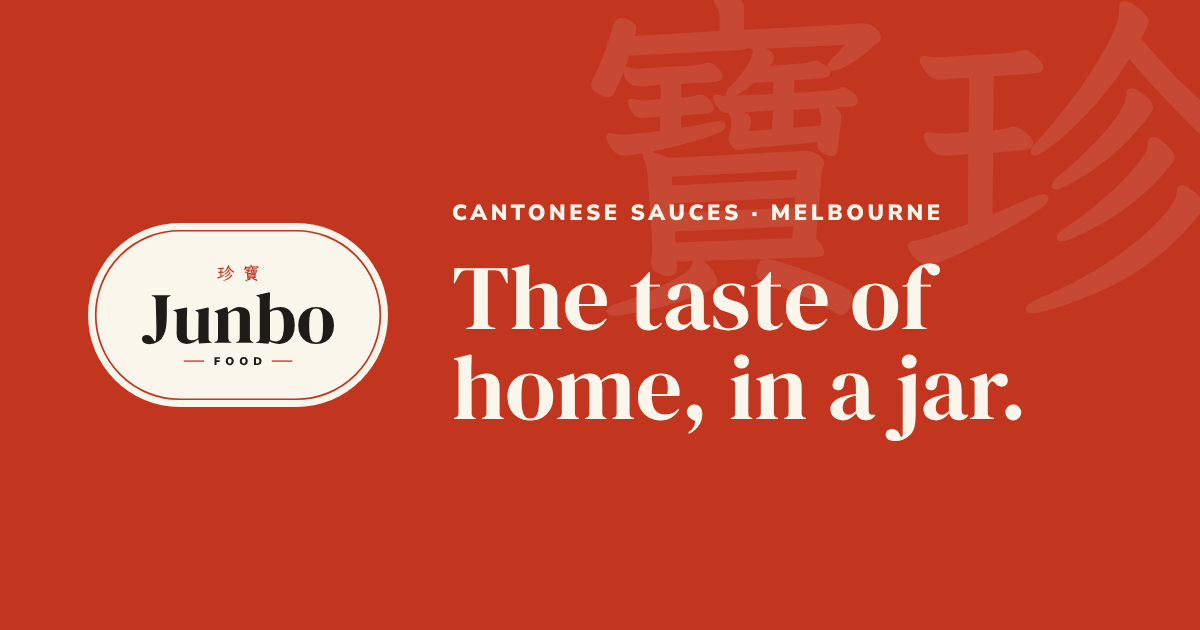
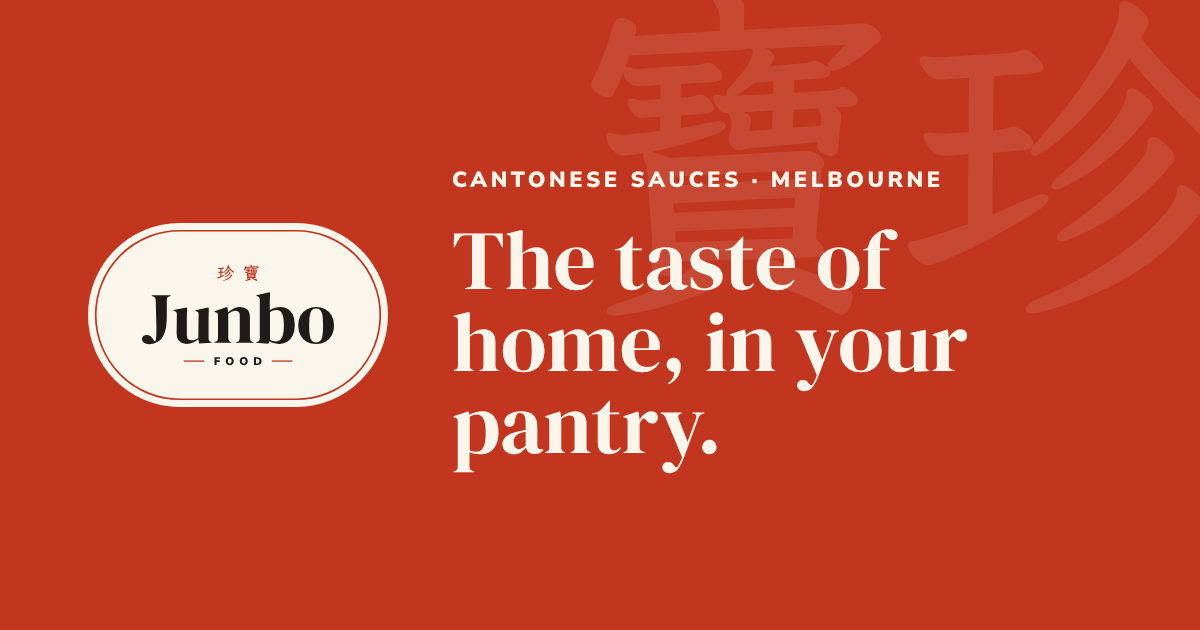
Change tagline to "The taste of home, in your pantry." (#4)
Updates the headline, share title and share image.

Claude-Session: https://claude.ai/code/session_01MYDLUq4dhegkNQLNVie6aP

Changed region(s): [[0.37, 0.2714, 0.8633, 0.754]]

diff --git a/index.html b/index.html
@@ -12,14 +12,14 @@
   <meta property="og:type" content="website">
   <meta property="og:site_name" content="Junbo Food">
   <meta property="og:locale" content="en_AU">
-  <meta property="og:title" content="Junbo Food · The taste of home, in a jar">
+  <meta property="og:title" content="Junbo Food · The taste of home, in your pantry">
   <meta property="og:description" content="Cantonese sauces from our family's takeaway kitchen in Melbourne. Online shop coming soon.">
   <meta property="og:url" content="https://junbofood.com/">
   <!-- Share image: replace with a product photo version (1200x630) when photos exist -->
   <meta property="og:image" content="https://junbofood.com/assets/img/share.png">
   <meta property="og:image:width" content="1200">
   <meta property="og:image:height" content="630">
-  <meta property="og:image:alt" content="Junbo Food logo on chilli red: the taste of home, in a jar.">
+  <meta property="og:image:alt" content="Junbo Food logo on chilli red: the taste of home, in your pantry.">
   <meta name="twitter:card" content="summary_large_image">
   <link rel="preconnect" href="https://fonts.googleapis.com">
   <link rel="preconnect" href="https://fonts.gstatic.com" crossorigin>
@@ -48,7 +48,7 @@
   <section class="hero-body wrap" aria-labelledby="hero-title">
     <div class="hero-copy">
       <p class="eyebrow">Online shop coming soon</p>
-      <h1 id="hero-title">The taste of home, in a jar.</h1>
+      <h1 id="hero-title">The taste of home, in your pantry.</h1>
       <p>XO sauce and chilli oil from our family's takeaway kitchen, Junbo Chinese. Made the way Mum and Dad have always made them.</p>
       <div class="actions">
         <a class="btn btn-cream" href="#sauces">Meet the sauces</a>
